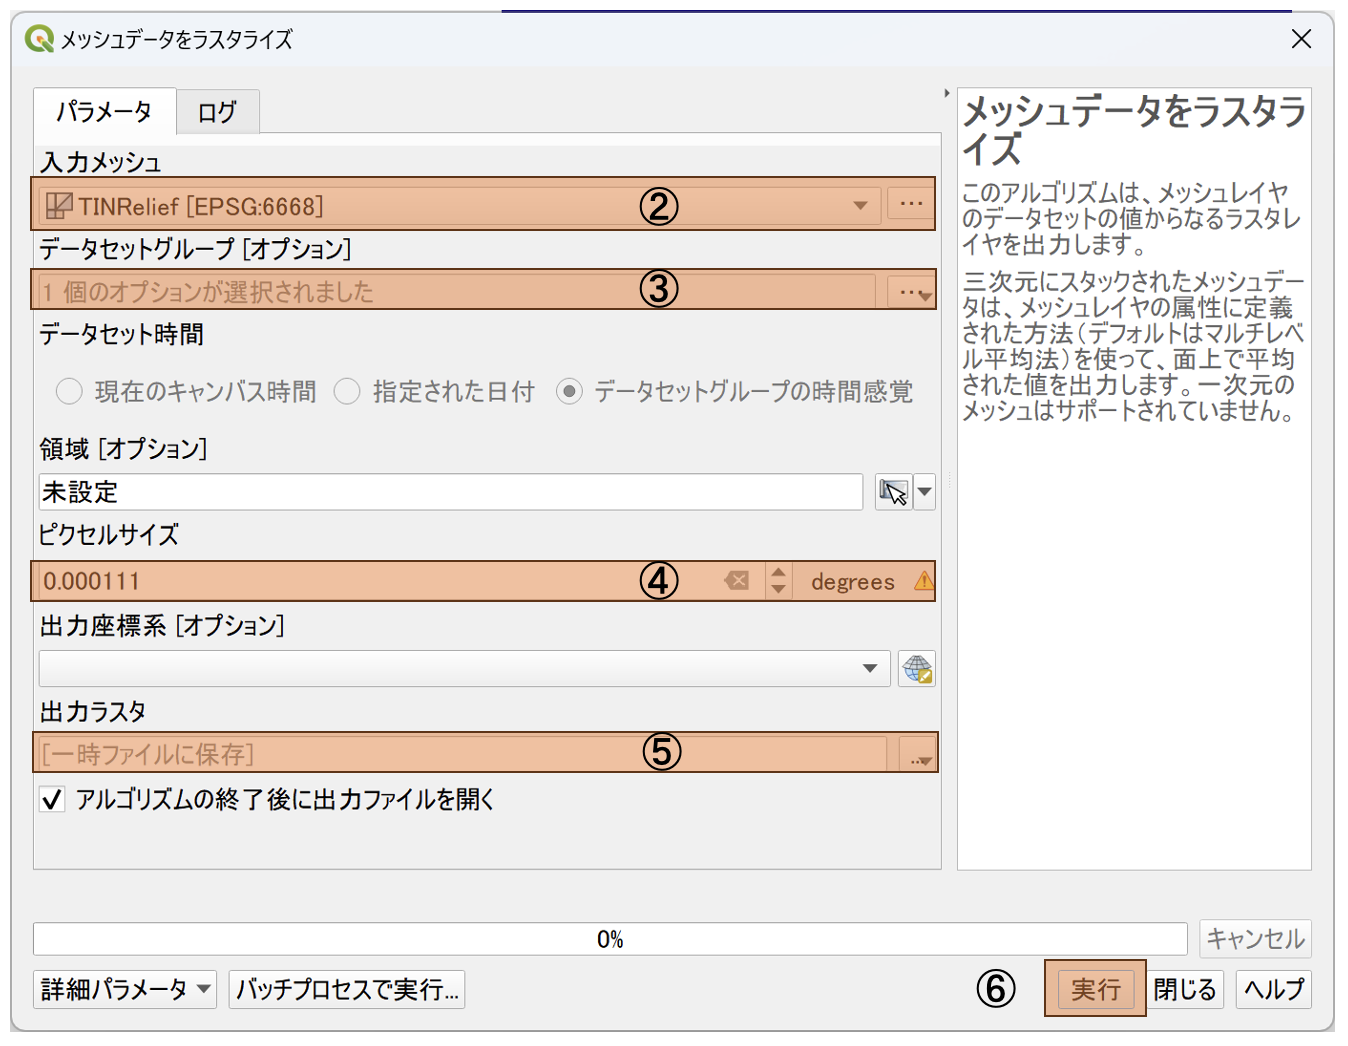
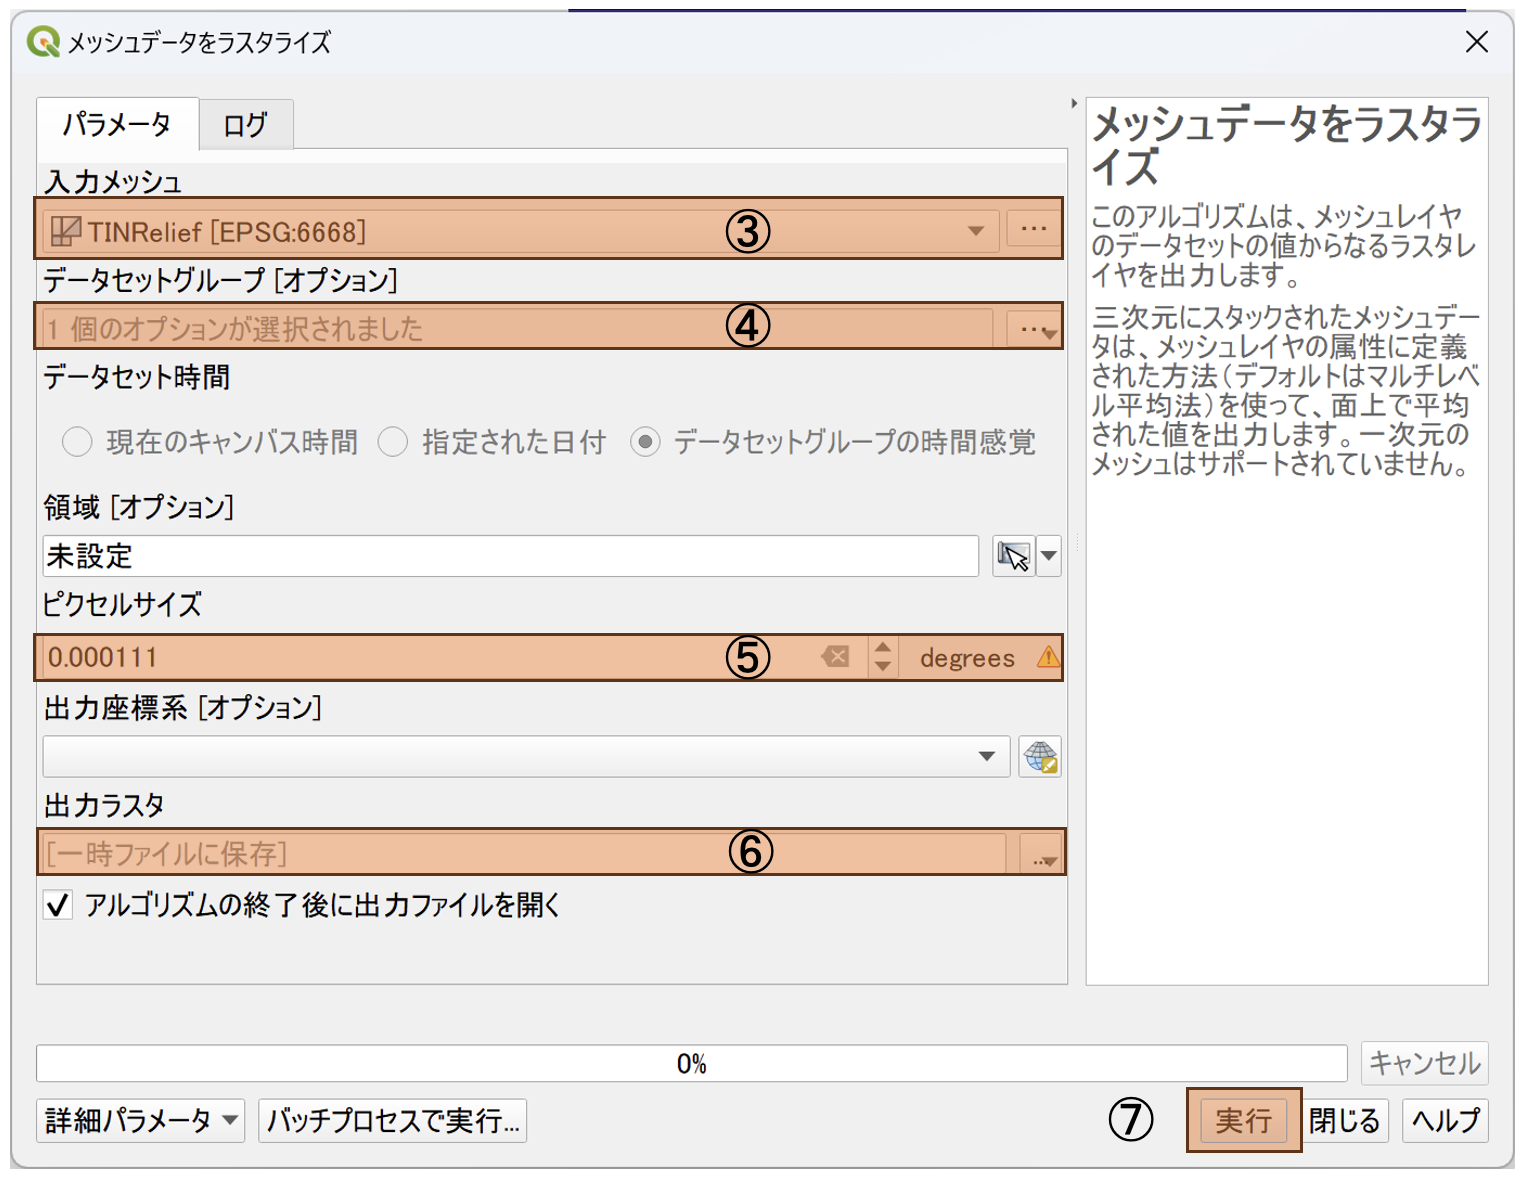
fix

diff --git a/docs/manual.md b/docs/manual.md
@@ -11,10 +11,10 @@
 ## はじめに
 ### プラグインの概要
 
-CityGML読み込みプラグイン（PLATEAU 3D City Model Plugin、以降「本プラグイン」と呼称）は、QGISでPLATEAUのCityGMLファイルを読み込みLOD1に相当する地物をQGIS上に表示することが出来るプラグインです。データは一時スクラッチレイヤに読み込まれます。
+CityGML読み込みプラグイン（PLATEAU 3D City Model Plugin、以降「本プラグイン」と呼称）は、QGISでPLATEAUのCityGMLファイルを読み込みLOD1に相当する地物をQGIS上に表示するためのプラグインです。データは一時スクラッチレイヤとして読み込まれます。
 ### 対応データ形式
 
-本プラグインでは「3D都市モデル標準製品仕様書 第3.0版」に対応するCityGMLファイルを指定する必要があります。いずれもQGIS上のベクタレイヤに変換し、データは一時スクラッチレイヤに読み込まれます。
+本プラグインでは「3D都市モデル標準製品仕様書 第3.0版」に対応するCityGMLファイルを指定する必要があります。
 
 ## 動作環境
 
@@ -32,21 +32,21 @@ QGISのインストールについては、以下を参照ください
 本プラグインはzip圧縮されたファイルで提供します。ダウンロードしたzipファイルのインストール手順は以下の通りです。
 
 QGISを起動
-1. メニュータブの[プラグイン]から[プラグインの管理とインストール]を選択
+1. メニュータブの[プラグイン]から[プラグインの管理とインストール]を選択します。
 
 <img src="picture/install00.png" width="500">
 
-2. 表示画面の左側のタブから[ZIPからインストール]を選択
-3. 表示画面の右側の[･･･]ボタンを選択し、エクスプローラ上で本プラグインのzipファイルを選択
-4. 表示画面中央の[インストール]を選択
+2. 表示画面の左側のタブから[ZIPからインストール]を選択します。
+3. 表示画面の右側の[･･･]ボタンを選択し、エクスプローラ上で本プラグインのzipファイルを選択します。
+4. 表示画面中央の[インストール]を選択します。
 5. メニュータブの[プラグイン]および、[プラグインツールバー]にインストールされたプラグインが表示されます。
 
 <img src="picture/install01.png" width="500">
 
 インストールされたプラグインが表示されない場合、以下の手順によりプラグインを有効化する必要があります。
 
-1. 表示画面の左側のタブから[インストール済]を選択
-2. 本プラグイン(aggregate in buffer)左側のチェックボックスをチェック
+1. 表示画面の左側のタブから[インストール済]を選択します。
+2. 本プラグイン左側のチェックボックスをチェックします。
 3. 本プラグインが有効化されます。
 
 <img src="picture/install02.png" width="500">
@@ -55,10 +55,10 @@ QGISを起動
 
 本プラグインのアンインストール手順は以下の通りです。
 
-1. メニュータブの[プラグイン]から[プラグインの管理とインストール]を選択
-2. 表示画面の左側のタブから[インストール済]を選択
-3. 本プラグイン(PLATEAU 3D City Model Plugin)を選択
-4. 表示画面右下の[アンインストール]を選択
+1. メニュータブの[プラグイン]から[プラグインの管理とインストール]を選択します。
+2. 表示画面の左側のタブから[インストール済]を選択します。
+3. 本プラグイン(PLATEAU 3D City Model Plugin)を選択します。
+4. 表示画面右下の[アンインストール]を選択します。
 5. 本プラグインがアンインストールされます。
 
 <img src="picture/uninstall01.png" width="500">
@@ -82,19 +82,21 @@ QGISを起動
 ## 「PLATEAU 3D都市モデルを読み込む」実行手順
 
 ### 実行手順
+
 1. メニュータブの[プロセシング]から[ツールボックス]を選択、ツールボックスが表示されたら、[Project PLATEAU]をダブルクリックし、[PLATEAU 3D都市モデルを読み込む]をダブルクリックしプラグインを起動します。
 
 <img src="picture/menu01.png" width="500">
 
-2. 本プラグインの設定画面において、各項目を設定
+2. 本プラグインの設定画面において、各項目を設定します。
 
 <img src="picture/operation01.png" width="500">
 
-3. 読み込み対象のCityGMLファイルを指定
 
-4. 各地物の最高LODのみを読み込む[オプション] (デフォルトで各地物の最高LODのみを読み込む)
-> 同一の都市オブジェクトに複数のLOD (詳細度) が用意されている場合は、デフォルトでは最も単純なLODのみを読み込みます。
-すべてのLODを読み込みたい場合は「全てのLODを読み込む」を選択してください。
+3. PLATEAU CityGMLファイル
+> 読み込み対象のCityGMLファイルを指定します。
+
+4. 読み込むLOD
+> 同一の都市オブジェクトに複数のLOD (詳細度) が用意されている場合は、デフォルトでは最も単純なLODのみを読み込みます。目的に応じて選択してください。
 
 5. 地物を構成する部分ごとにレイヤを分ける[オプション]
 >オプションを有効にすると、一部のモデルのLOD2以上において、壁や屋根、車道や歩道といった意味的な部分に分けて地物を読み込みます。有効にすると生成される地物の数が大幅に増える可能性があります。
@@ -106,10 +108,11 @@ QGISを起動
 > オプションを有効にすると、既存のレイヤに追記されます。
 
 8. 変換先CRS[オプション]
-> 変換先のCRSを指定します。(デフォルトで EPSG:6668 (JGD2011))
+> 変換先のCRSを指定します。(デフォルトではEPSG:6668 (JGD2011))
 
 9. ｢実行｣を押下して処理を実行
-> 処理が完了すると、QGISのレイヤパネルに読み込まれたデータが表示されます。
+> ｢実行｣を押下すると処理が開始します。処理が完了すると、QGISのレイヤパネルに読み込まれたデータが表示されます。
+
 
 ### 災害リスク情報の取り扱い
 災害リスク情報を持つ建築物モデルを読み込むと、建築物モデルとは別のレイヤ（テーブル形式のレイヤ）として出力されます。
@@ -137,6 +140,7 @@ QGISを起動
     - [結合するレイヤ]には、建築物モデルに付与したい災害リスク情報のレイヤを選択
     - [結合基準の属性]には、[parent]を選択
     - [ターゲット属性]には、[id]を選択
+
 5. オプションで[属性名の接頭辞]にチェックを入れて、値を適宜修正します。
 6. [OK]をクリックします。
 <img src="picture/operation18.png" width="500">
@@ -159,12 +163,16 @@ QGISを起動
 
 <img src="picture/menu02.png" width="500">
 
-2. 本プラグインの設定画面において、各項目を設定
+2. 本プラグインの設定画面において、各項目を設定します。
 
 <img src="picture/operation02.png" width="500">
 
-3. 読み込み対象のCityGMLファイル(地形モデル)を指定
+3. PLATEAU CityGMLファイル
+> 読み込み対象のCityGMLファイル(地形モデル)を指定します。
+
 4. 出力メッシュファイル[オプション] 
+> 出力するフォルダを指定します。指定しない場合は、一時スクラッチレイヤとして読み込まれます。
+
 5. ｢実行｣を押下して処理を実行
 > 処理が完了すると、QGISのレイヤパネルに読み込まれたデータが表示されます。
 
@@ -174,16 +182,24 @@ QGISを起動
 1. メニュータブの[プロセシング]から[ツールボックス]を選択、ツールボックスが表示されたら、[メッシュ]をダブルクリックし、[メッシュデータをラスタライズ]をダブルクリックしプラグインを起動します。
 <img src="picture/operation22.png" width="500">
 
-
-2. 入力メッシュに[TINRelief（プラグインでインポートしたDEMを選択）]を設定
-3. [データセットグループ]には、右の[…]より[現在アクディブなデータセットグループ]を設定
-4. [ピクセルサイズ]には、ラスタのピクセルサイズを設定
-> 地形モデルは緯度経度で作成されているため、約10m（0.4秒）のラスタを作成する場合は[0.00011111]を入力します（1 / 60 / 60 * 0.4 = 0.00011111度）。
-5. [出力ラスタ]には、オプションで出力先を指定
-6.  ｢実行｣を押下して処理を実行します。
+2. 設定画面において、各項目を設定します。
 <img src="picture/operation23.png" width="500">
 
-7. ラスタライズされた地形モデルが出力されます。
+3. 入力メッシュ
+> [TINRelief（プラグインでインポートした地形モデルを選択）]を設定します。
+
+4. データセットグループ
+> 右の[…]より[現在アクディブなデータセットグループ]を設定
+
+5. ピクセルサイズ
+> ラスタのピクセルサイズを設定します。地形モデルは緯度経度のデータとして作成されているため、約10m（0.4秒）のラスタを作成する場合は[0.00011111]を入力します（1 / 60 / 60 * 0.4 = 0.00011111度）。
+
+6. [出力ラスタ]
+出力するフォルダを指定します。指定しない場合は、一時スクラッチレイヤとして読み込まれます。
+
+7.  ｢実行｣を押下して処理を実行
+> 処理が完了すると、QGISのレイヤパネルに読み込まれたデータが表示されます。
+
 <img src="picture/operation24.png" width="500">
 
 ## バッチプロセスによる複数のファイルの一括読み込み
@@ -197,7 +213,7 @@ QGISを起動
 
 <img src="picture/menu01.png" width="500">
 
-2. バッチプロセスで実行をクリック
+2. [バッチプロセスで実行]をクリック
 
 <img src="picture/operation03.png" width="500">
 
@@ -209,19 +225,24 @@ QGISを起動
     - 既存の同名レイヤに追記する (デフォルト はい)
     - 変換先CRS (デフォルトで EPSG:6668 (JGD2011))
 
-1. 完了時にレイヤーを読み込む
-2. ｢実行｣を押下して処理を実行
-
 <img src="picture/operation04.png" width="500">
+
+4. 完了時にレイヤを読み込む
+> チェックを入れます。
+
+5. ｢実行｣を押下して処理を実行
+> 処理が完了すると、QGISのレイヤパネルに読み込まれたデータが表示されます。
+
+
 
 #### オートフィル機能を使って複数のCityGMLファイルを一括読み込み
 
-1.オートフィルを選択
-2.ファイルを選択
+1.[オートフィル]を選択します。
+2.[ファイル]を選択します。
 
 <img src="picture/operation07.png" width="500">
 
-3.フォルダーから読み込みたいCityGMLファイルを複数選択
+3.フォルダーから読み込みたいCityGMLファイルを複数選択します。
 
 <img src="picture/operation08.png" width="500">
 
@@ -229,42 +250,45 @@ QGISを起動
 ####  フィルダウン機能を使ってオプションを一括登録
 一番上の行の選択項目がすべての行に反映されます。
 
-1.１番上の行の選択項目を設定し、オートフィルを選択
-2.フィルダウンを選択
+1.１番上の行の選択項目を設定し、[オートフィル]を選択します。
+2.[フィルダウン]を選択します。
 <img src="picture/operation09.png" width="500">
 <img src="picture/operation09-2.png" width="500">
 
-3.選択列の項目が１番目の値にすべて変更されます
+3.選択列の項目が１番目の値にすべて変更されます。
 
 <img src="picture/operation10.png" width="500">
 
 ###  「PLATEAU 地形モデルをメッシュとして読み込む」バッチプロセスでの実行
 
-1. メニュータブの[プロセシング]から[ツールボックス]を選択、ツールボックスが表示されたら、[Project PLATEAU]をダブルクリックし、[PLATEAU 地形モデルをメッシュとして読み込む]をダブルクリックしプラグインを起動します。
+1. メニュータブの[プロセシング]から[ツールボックス]を選択し、ツールボックスが表示されたら、[Project PLATEAU]をダブルクリックし、[PLATEAU 地形モデルをメッシュとして読み込む]をダブルクリックしプラグインを起動します。
 
 <img src="picture/menu02.png" width="500">
 
-2. バッチプロセスで実行をクリック
+2. [バッチプロセスで実行]をクリックします。
 
 <img src="picture/operation11.png" width="500">
 
-3. パラメータタブにおいて、以下の項目を読み込みたいCityGMLの数だけ設定する。
+3. パラメータタブにおいて、以下の項目を読み込みたいCityGMLの数だけ設定します。
 
     - PLATEAU CityGMLファイル
     - 出力メッシュファイル (デフォルト空白)
 
-1. 完了時にレイヤーを読み込む
-2. ｢実行｣を押下して処理を実行
-
 <img src="picture/operation12.png" width="500">
+
+4. 完了時にレイヤを読み込む
+> チェックを入れます。
+
+5. ｢実行｣を押下して処理を実行します。
+
 
 #### オートフィル機能を使って、複数のCityGMLファイルを一括読み込み
 
-1.オートフィルを選択
-2.ファイルを選択
+1.[オートフィル]を選択します。
+2.[ファイル]を選択します。
 
 <img src="picture/operation13.png" width="500">
 
-3.フォルダーから読み込みたいCityGMLファイルを複数選択
+3.フォルダーから読み込みたいCityGMLファイルを複数選択します。
 
 <img src="picture/operation14.png" width="500">
